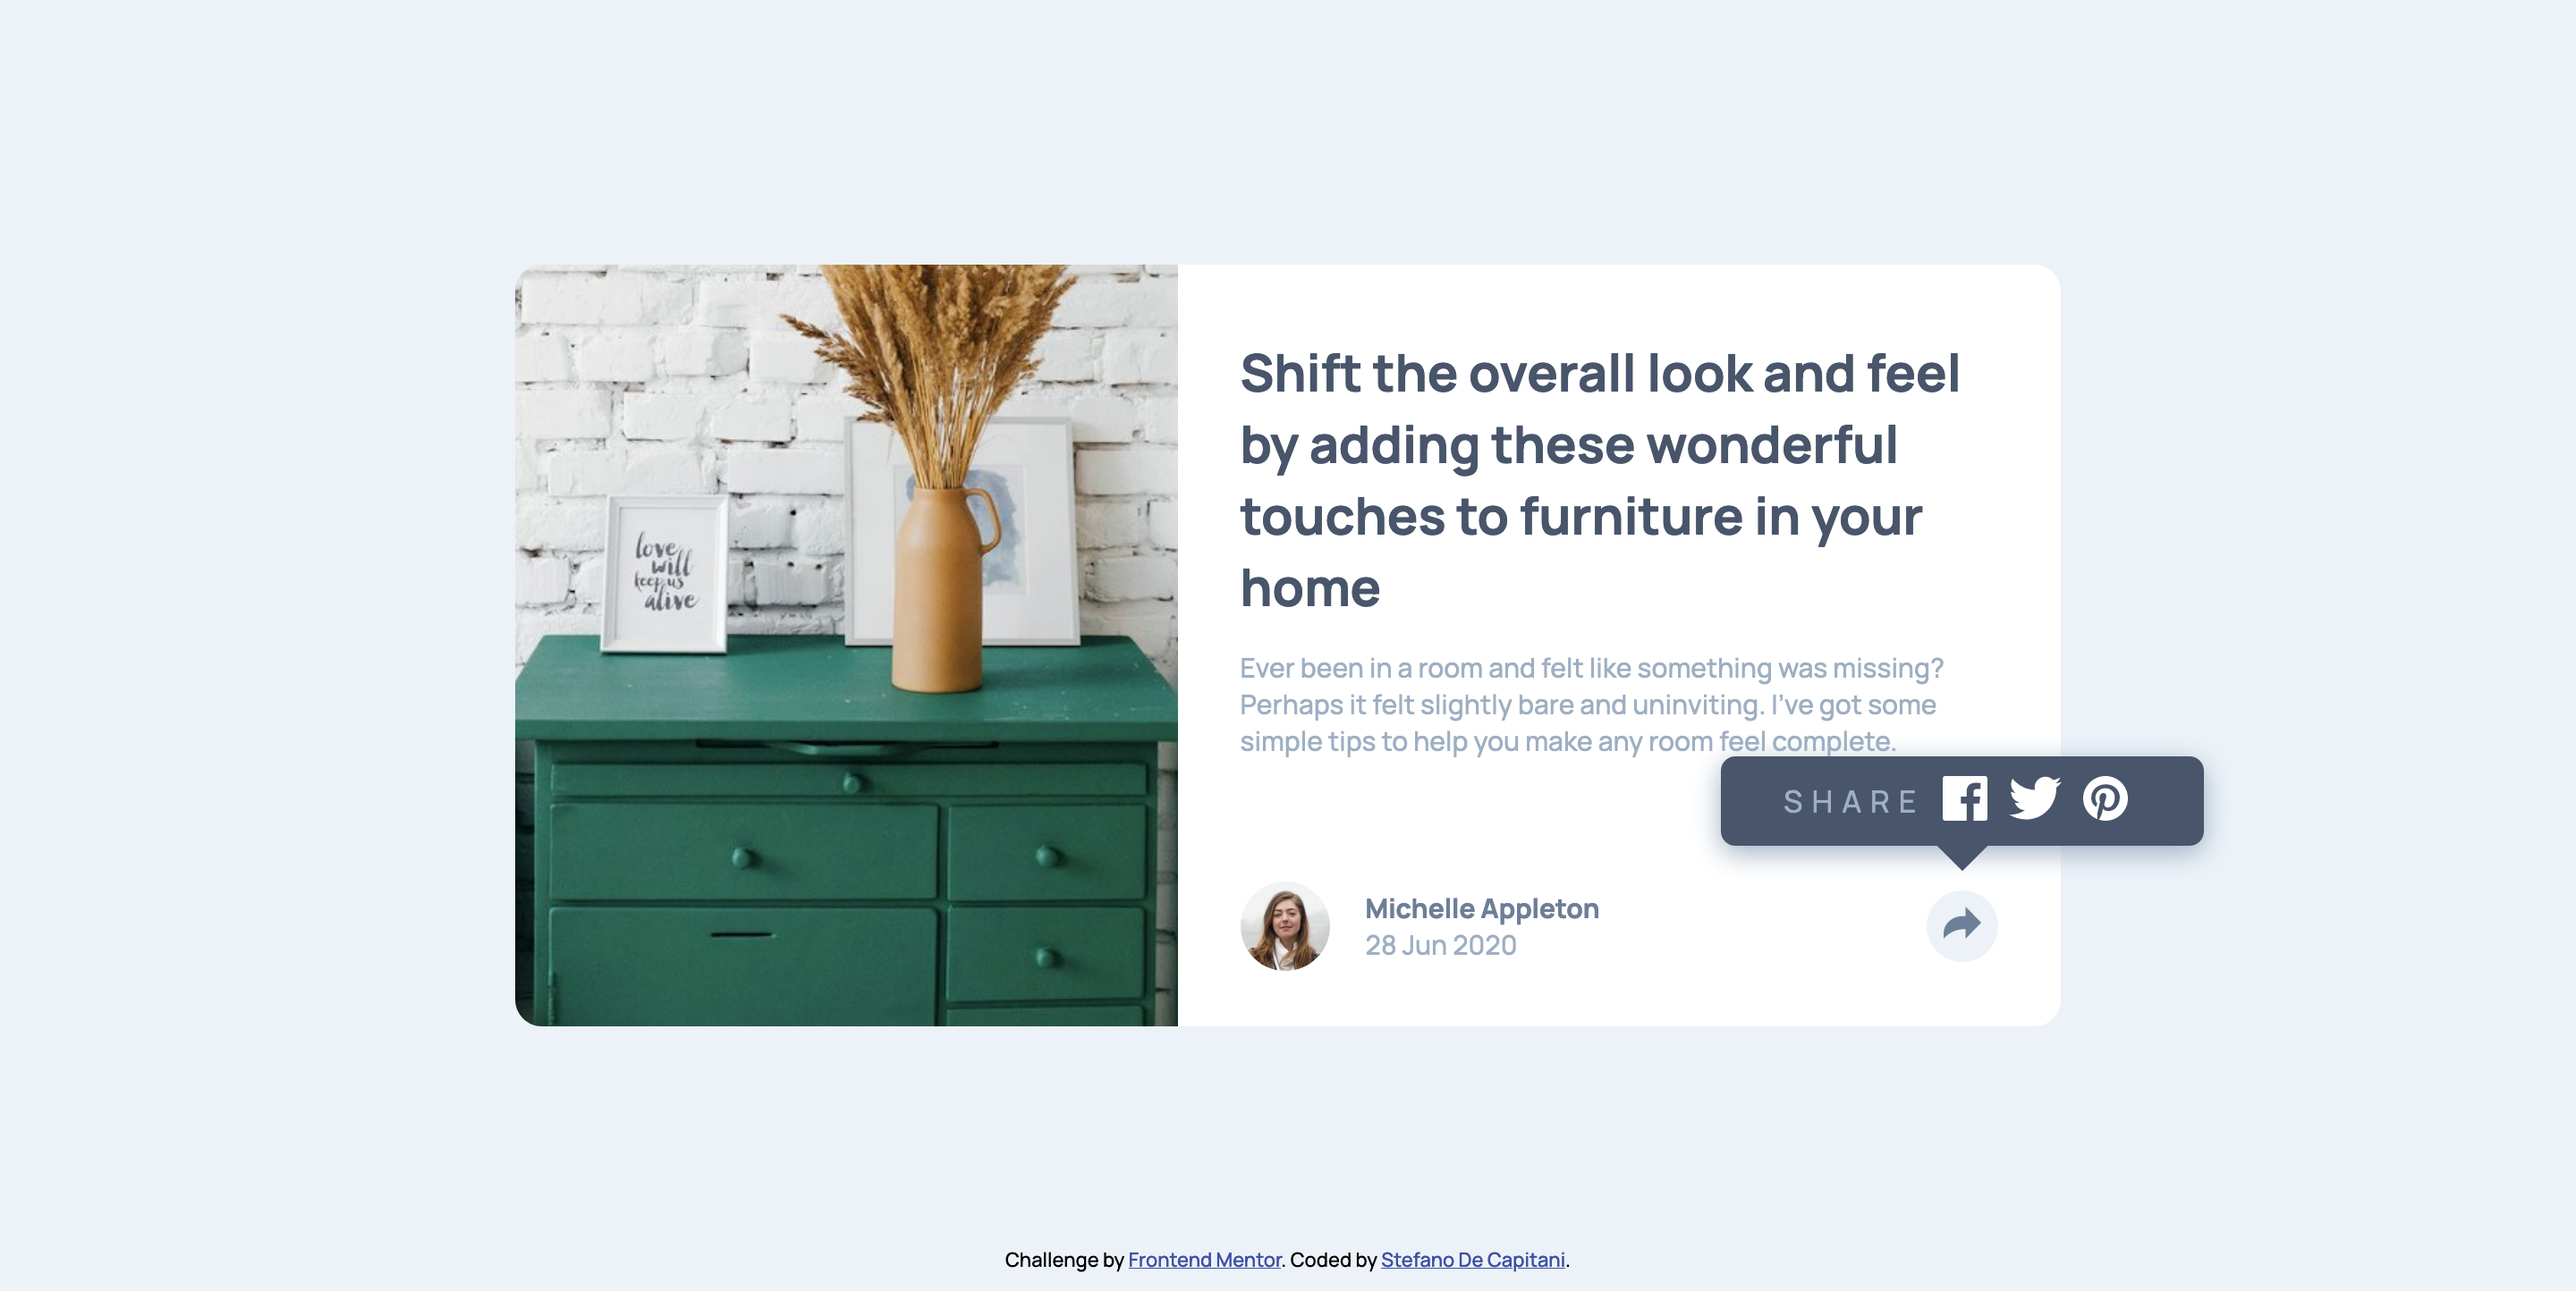
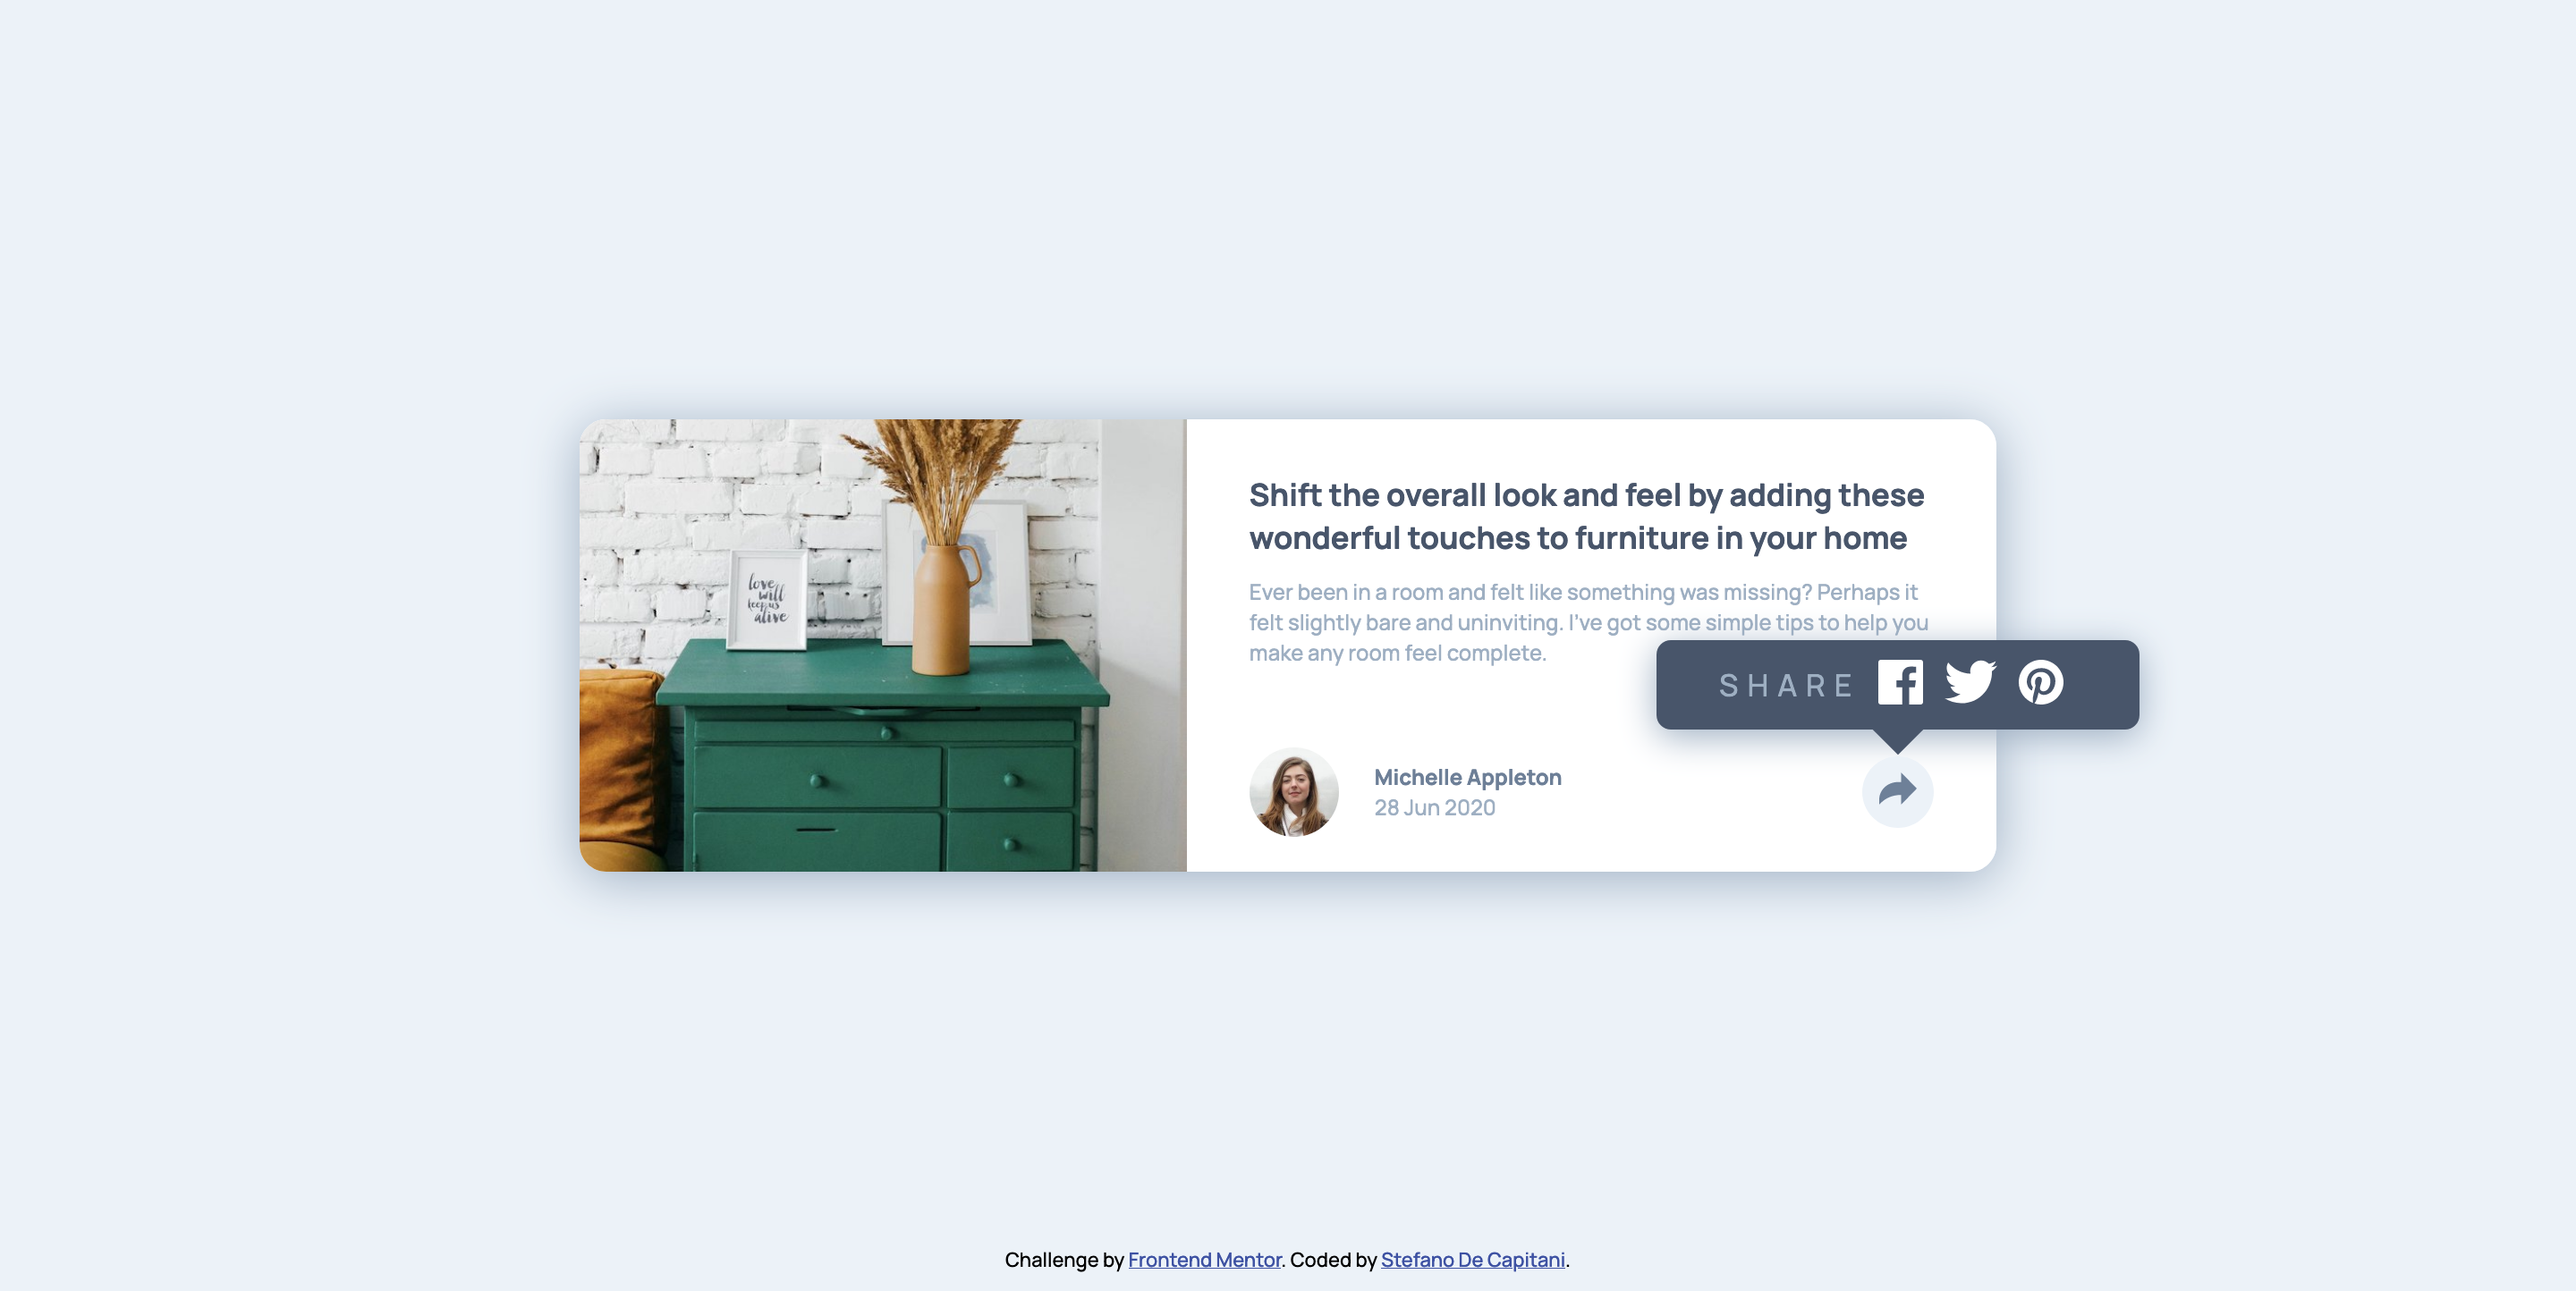
Sizing update

Changed region(s): [[0.1875, 0.187, 0.875, 0.8102]]

diff --git a/style.css b/style.css
@@ -69,17 +69,17 @@ body {
 /*--------- 2. Typography ----------*/
 
 h2 {
-  font-size: clamp(1.8rem, 2vw, 4rem);
+  font-size: clamp(1.4rem, 1.2vw, 4rem);
   color: var(--very-dark-grayish-blue);
 }
 
 h3 {
-  font-size: clamp(1.5rem, 1vw, 3rem);
+  font-size: clamp(1.2rem, 0.7vw, 2rem);
   color: var(--desaturated-dark-blue);
 }
 
 p {
-  font-size: clamp(1.5rem, 1vw, 3rem);
+  font-size: clamp(1.2rem, 0.7vw, 2rem);
   color: var(--grayish-blue);
 }
 
@@ -95,7 +95,7 @@ main.card {
 
   border-radius: 1.5rem;
   overflow: hidden;
-  box-shadow: 0 0.4rem 1.5rem var(--grayish-blue);
+  box-shadow: 0 0.4rem 3rem var(--grayish-blue);
 }
 
 /*image*/
@@ -115,8 +115,8 @@ section.text_content {
   padding: 4rem 3.5rem 2rem;
 }
 
-.text_content>p {
-  margin: 1.5rem 0 0;
+.text_content > p {
+  margin: 1rem 0 0;
 }
 
 /*share section*/
@@ -168,6 +168,10 @@ section.share_section {
   height: 1.8rem;
 }
 
+.share_icon:hover {
+  cursor: pointer;
+}
+
 /* !!ACTIVE STATE!! */
 
 .active_state {
@@ -176,11 +180,11 @@ section.share_section {
   right: 0;
   z-index: 2;
 
+  padding: 2rem 3.5rem 2rem;
+
   height: 100%;
   width: 100%;
   background: var(--very-dark-grayish-blue);
-
-  padding: 2rem 3.5rem 2rem;
 
   display: none;
   align-items: center;
@@ -215,6 +219,10 @@ section.share_section {
 .social_icon {
   margin: 0 0.5rem;
   height: 2.5rem;
+}
+
+.social_icon:hover {
+  cursor: pointer;
 }
 
 /*3.2 FOOTER*/
@@ -294,17 +302,17 @@ footer.attribution {
 
 
 /*<<<<<<<<<<<<<<<<<<<<<<
-   D: min-width: 920px
+   D: min-width: 981px
 <<<<<<<<<<<<<<<<<<<<<<<*/
 
-@media screen and (min-width: 920px) {
+@media screen and (min-width: 981px) {
 
   /*--------- 3. Layout ----------*/
 
   /*3.1 CARD*/
 
   main.card {
-    width: 60%;
+    width: 55%;
 
     overflow: visible;
 
@@ -320,7 +328,7 @@ footer.attribution {
   .drawers {
     grid-area: image;
 
-    height: 59vh;
+    height: 35vh;
 
     border-top-left-radius: 1.5rem;
     border-bottom-left-radius: 1.5rem;
@@ -331,7 +339,9 @@ footer.attribution {
   section.text_content {
     grid-area: text;
 
-    height: 45vh
+    padding: 3rem 3.5rem 1rem;
+
+    height: 24vh
   }
 
   /*share section*/
@@ -339,7 +349,11 @@ footer.attribution {
   section.share_section {
     grid-area: share;
 
-    height: 14vh;
+    height: 11vh;
+  }
+
+  .non_active_state {
+    padding: 1rem 3.5rem 1rem;
   }
 
   /* !!ACTIVE STATE!! */
@@ -354,7 +368,7 @@ footer.attribution {
     transform-origin: center 125%;
 
     border-radius: 0.8rem;
-    box-shadow: 0 0.4rem 1.5rem var(--grayish-blue);
+    box-shadow: 0 0.4rem 2rem var(--grayish-blue);
 
     animation: share_pin 0.5s ease;
   }

diff --git a/script.js b/script.js
@@ -5,10 +5,5 @@ var shareIcon = document.querySelector(".share_icon");
 var activeState = document.querySelector(".active_state");
 
 shareButton.addEventListener("click", function(){
-  activeState.classList.add("visible");
-  body.addEventListener("click", function(e) {
-    if(!shareSection.contains(e.target)){
-      activeState.classList.remove("visible");
-    }
-  })
+  activeState.classList.toggle("visible");
 });
